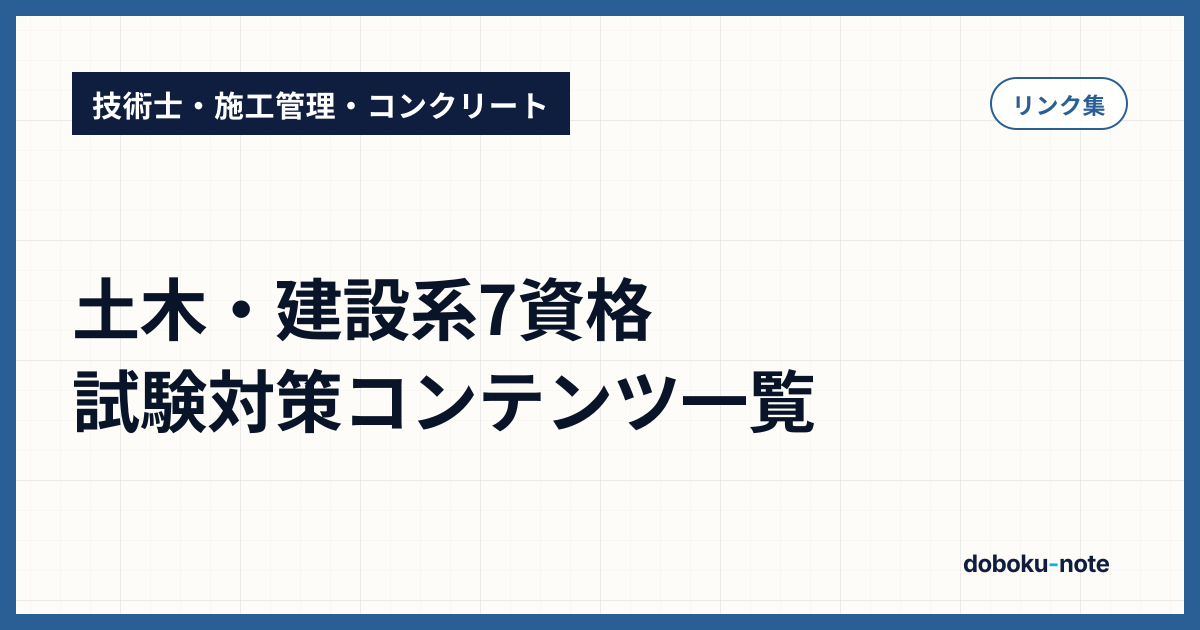
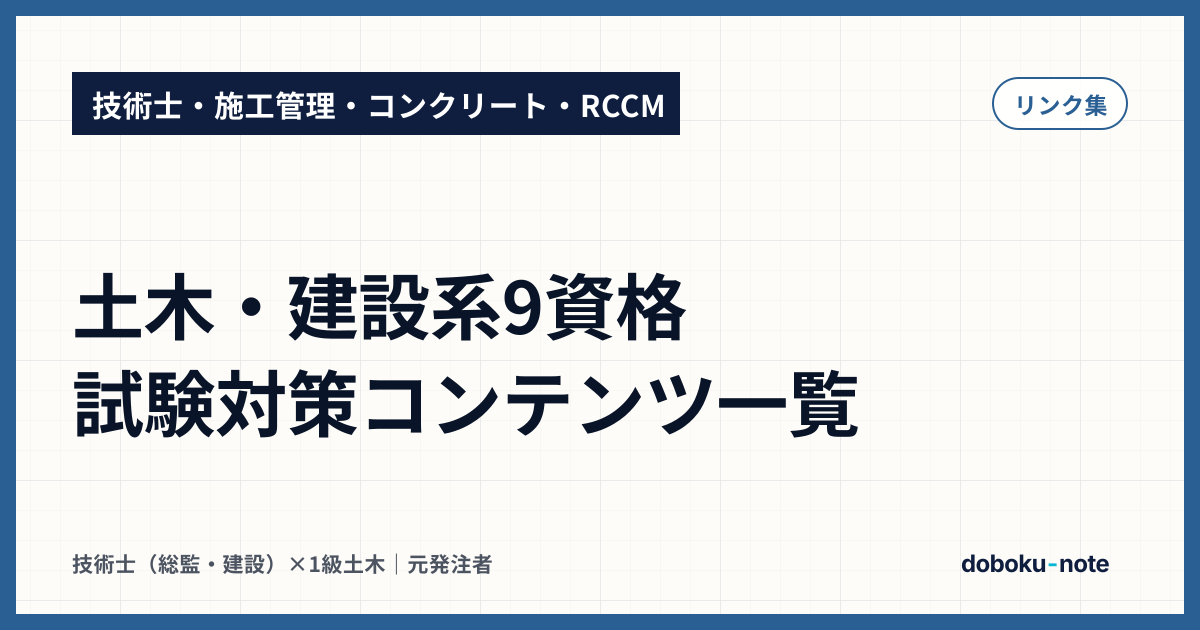
fix(links): /links の OG 画像と alt を 9 資格（RCCM を含む）に作り直す（DN-0301）
og-links.png は「7資格」、alt は「8資格」のままで、SNS で /links を共有すると古い数が出ていた。
mono-tag テンプレ（背景写真なし）で「技術士・施工管理・コンクリート・RCCM」「土木・建設系9資格」に再描画。

diff --git a/src/app/links/page.tsx b/src/app/links/page.tsx
@@ -34,7 +34,7 @@ export const metadata: Metadata = {
         url: "https://doboku-note.com/images/og-links.png",
         width: 1200,
         height: 630,
-        alt: "doboku-note 土木・建設系8資格の試験対策コンテンツ一覧",
+        alt: "doboku-note 土木・建設系9資格の試験対策コンテンツ一覧",
       },
     ],
   },
